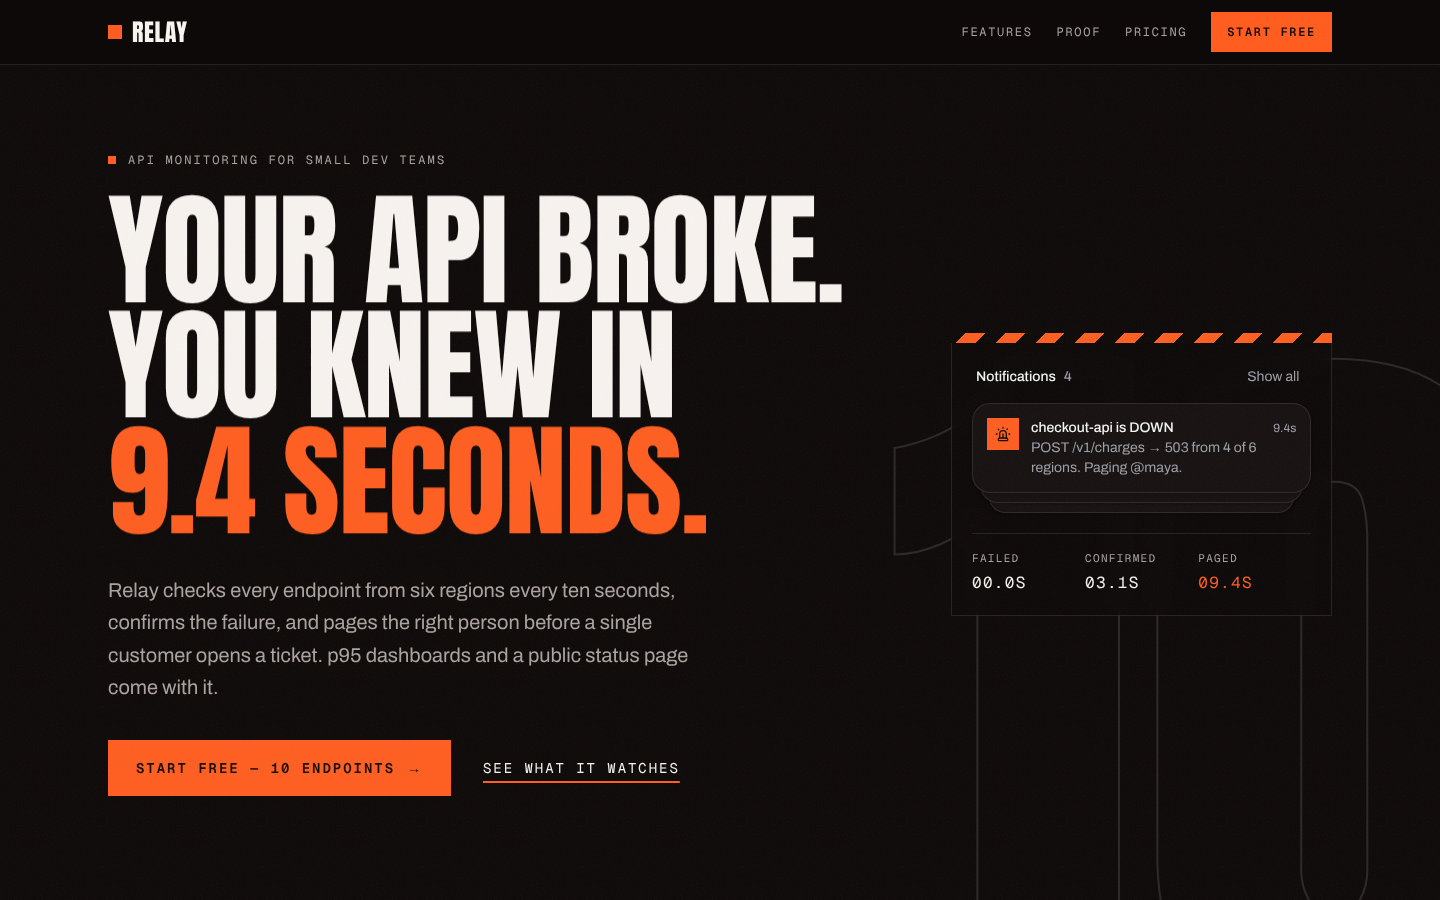
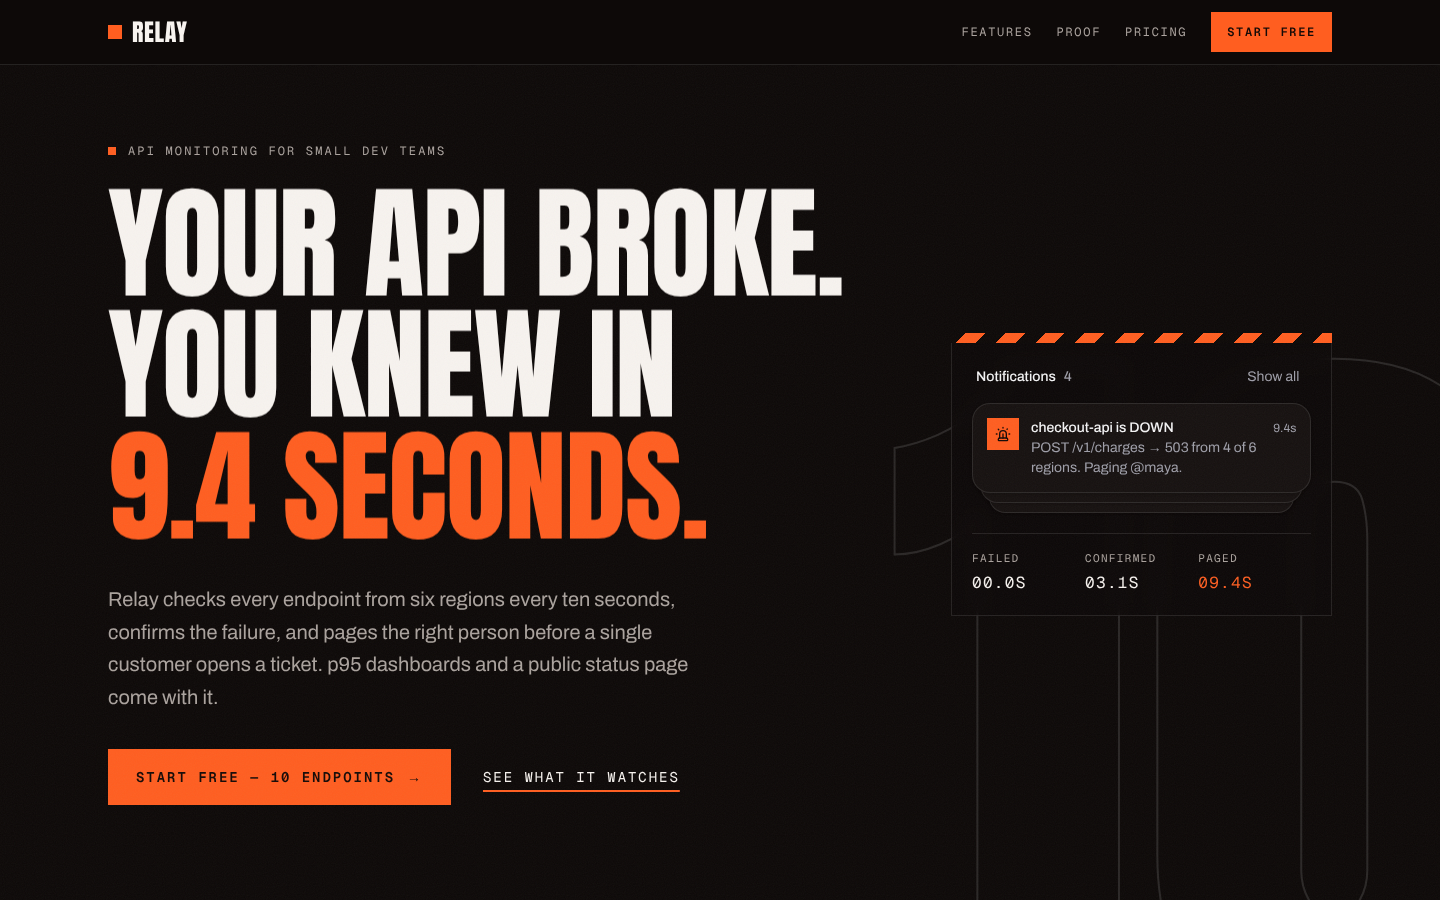
Add iteration-2 with-skill output: bold-product-landing
Claude-Session: https://claude.ai/code/session_01B9WYNw1FdydNedGGChMASu

diff --git a/premium-site-workspace/iteration-2/eval-bold-product-landing/with_skill/run-1/outputs/site/src/components/sections/hero.tsx b/premium-site-workspace/iteration-2/eval-bold-product-landing/with_skill/run-1/outputs/site/src/components/sections/hero.tsx
@@ -103,7 +103,7 @@ export function Hero() {
                 9.4 seconds.
               </span>,
             ]}
-            className="font-display text-[clamp(3.4rem,8.6vw,9.25rem)] uppercase leading-[0.93] tracking-[-0.01em] text-balance"
+            className="font-display text-[clamp(3.4rem,8.6vw,9.25rem)] uppercase leading-[0.98] tracking-[-0.01em] text-balance"
           />
           <Stagger onMount delay={0.55} className="mt-9 flex flex-col gap-9">
             <StaggerItem>

diff --git a/premium-site-workspace/iteration-2/eval-bold-product-landing/with_skill/run-1/outputs/site/src/components/sections/speed.tsx b/premium-site-workspace/iteration-2/eval-bold-product-landing/with_skill/run-1/outputs/site/src/components/sections/speed.tsx
@@ -20,7 +20,7 @@ export function Speed() {
           </h2>
         </Reveal>
         <p
-          className="mt-4 font-display uppercase leading-[0.8] tracking-[-0.02em] text-[clamp(9rem,34vw,30rem)]"
+          className="mt-10 font-display uppercase leading-[0.86] tracking-[-0.02em] text-[clamp(9rem,34vw,30rem)]"
         >
           <CountUp to={9.4} duration={1.4} format={(n) => n.toFixed(1)} />
           <span className="text-brand">s</span>

diff --git a/premium-site-workspace/iteration-2/eval-bold-product-landing/with_skill/run-1/outputs/REPORT.md b/premium-site-workspace/iteration-2/eval-bold-product-landing/with_skill/run-1/outputs/REPORT.md
@@ -1,0 +1,87 @@
+# Relay — landing page report
+
+Project: `outputs/site` (Next.js 16.4.2 App Router, Tailwind v4, shadcn/ui base-nova, Motion 14.5, Kokonut UI, Bklit UI). Art direction is in `site/ART_DIRECTION.md`. Screenshots are in `outputs/shots/`.
+
+## Concept
+> A fire-alarm pull station: black steel, one hazard-orange signal, stencilled numbers that shout the countdown. The page *is* the alarm going off before your users notice.
+
+## Type pairing
+- **Display:** Anton 400. All caps, set at `clamp(3.4rem, 8.6vw, 9.25rem)` in the hero and up to 30rem for the "9.4s" number.
+- **Text:** Archivo (variable, wdth axis). Body text is 18px.
+- **Mono:** Geist Mono, for labels, timestamps, latency figures and the plan toggle.
+
+All three load through `next/font/google` as `--font-display` / `--font-sans` / `--font-mono`.
+
+## Accent
+- `--brand: oklch(0.70 0.215 38)` (hazard orange).
+- `--brand-foreground: oklch(0.16 0.02 38)`.
+- Neutrals are tinted to hue 40: background `oklch(0.145 0.008 40)`, surface `oklch(0.185 0.009 40)`, hairlines `oklch(1 0 0 / 10%)`.
+- shadcn `--primary` / `--ring` and Bklit `--chart-line-primary` / `--chart-1` / `--chart-crosshair` are mapped to `--brand`.
+- The accent floods only one section: the final signup slab. Everywhere else it stays a signal (one word per headline, CTAs, chart lines, the escalation step).
+
+## Section map
+| # | Section | Component | Motion idea |
+|---|---|---|---|
+| 0 | Nav | custom header + brand CTA | fades in last (0.9s) |
+| 1 | Hero `#hero`: "Your API broke. You knew in 9.4 seconds." | `MaskedLines` + `Stagger onMount`, Kokonut `notification-stack` (restyled into a Relay alert feed in a hazard-striped frame), giant stroked "10" as a background type layer | headline lines rise from the mask; the alert panel rises and scales in last. **flowy:** the "10" parallaxes and the copy lifts/dims on exit |
+| 2 | Integrations strip `#integrations` | wordmarks set in Anton at 40% opacity (no third-party logo files) | **flowy:** seamless CSS ticker that pauses on hover/focus |
+| 3 | Speed `#speed` | `CountUp` to 9.4 at about 30rem, plus a 4-step failure→page timeline | number rolls up; steps stagger |
+| 4 | Latency `#latency`: "p95 down 72% in 12 weeks" | Bklit `area-chart` in `InViewMount`, 4/8 split | chart clip-reveal when it scrolls into view |
+| 5 | Uptime `#uptime`: "212 minutes down. Then 4." | Bklit `bar-chart` (stacked before/with Relay) plus a 99.99% stat, flipped 7/5 split on a surface band | bars grow when in view |
+| 6 | Features `#features` | bento grid with mixed spans: Kokonut `uptime-card` (recolored to tokens), escalation list, p95 spark bars, `relay.yml` snippet, region quorum table, three text cells | cells stagger; `HoverLift` on the small cells |
+| 7 | Pricing `#pricing` | 3 plans (Hobby $0 / Team $29 / Scale $99), monthly/yearly radiogroup with a `layoutId` pill | price digits swap with `AnimatePresence popLayout` + y |
+| 8 | Signup `#signup` | full-bleed orange slab, `MaskedLines` (whileInView), email form + Kokonut `particle-button` inside `Magnetic`, `/api/signup` stub | headline masks in; the button bursts ink chips on success |
+| 9 | Footer | link grid plus a giant cropped "RELAY" wordmark | none |
+
+## Dependencies added
+- **From the scaffold:** `motion`, `@base-ui/react`, `cn`, `clsx`, `tailwind-merge`, `class-variance-authority`, `lucide-react`, `tw-animate-css`, the visx/d3 packages and `@number-flow/react` (Bklit).
+- **Added for flowy:** `lenis`.
+- **Registry components:** Kokonut `particle-button`, `notification-stack` and `uptime-card`; Bklit `area-chart` and `bar-chart`; shadcn `button`.
+
+## Signup endpoint
+`src/app/api/signup/route.ts` validates the email. If `SIGNUP_WEBHOOK_URL` is set, it forwards the email there. **It stores nothing itself.** Set that env var in Vercel to collect signups.
+
+## Reduced motion
+- `MotionConfig reducedMotion="user"` drops transforms and keeps opacity fades.
+- `CountUp` renders 9.4 immediately (hydration-safe hook).
+- Bklit charts get `animationDuration={0}`.
+- The hero parallax values map to their resting state (same elements, same style objects, so no hydration branch).
+- Lenis does not start under reduced motion or on coarse pointers.
+- The marquee stops; the duplicate group is hidden and the list wraps statically (pure CSS media query).
+- The single CSS loop (the live "signal" dot) is gated.
+- `desktop-reduced-full.png` shows every piece of content.
+
+## Verification
+- `python3 check_site.py site`: **0 fail, 0 warn, 14 pass**.
+- `npx eslint`: **clean** (no output).
+- `npx next build`: **clean**. `/` is prerendered static; `/api/signup` is dynamic.
+- `screenshot.mjs site shots` (site-dir mode): **no console errors, hydration errors or overflow reported**, on the final run and every earlier run.
+- **Manual screenshot review:**
+  - **First pass** found a mobile layout bug: the page was 425px wide on a 390px viewport. Grid items in the features bento auto-sized to the uptime card and the code block. The script did not catch it (see the notes below). Fixed with `grid-cols-1` + `min-w-0`; the mobile capture is now exactly 390px wide.
+  - The first pass also found three smaller problems, all fixed:
+    - the email input collapsed in height on mobile (`flex-1` in a column)
+    - the hero headline lines touched (leading 0.88 → 0.98)
+    - the speed eyebrow collided with the giant number
+- **API smoke test:** `next start -p 3134`, stopped by its own PID. A valid email returns `{"ok":true}`; an invalid one returns 422.
+
+## What flowy added
+flowy was read from disk (`SKILL.md` + `references/adaptation-workflow.md`, Mode B). It stayed on Motion's clock; no GSAP was added.
+- **Lenis inertial scroll:** `smooth-scroll.tsx` drives Lenis from Motion's `frame.setup`, so there is one clock. It is mounted once in the layout with `navOffset={64}` for the fixed header, and `lenis/dist/lenis.css` is imported. It is skipped under reduced motion and on touch.
+- **Hero:** `useScroll` + `useTransform`. The stroked "10" sinks at a slower rate than the page (+260px over the hero), and the copy column lifts 90px and dims as you leave.
+- **Integrations:** a CSS transform ticker on a duplicated track (each group carries its trailing gap, so −50% is seamless), with edge mask fades. It pauses on hover/focus.
+- **Deliberately not added:** pinning, horizontal scroll and scrubbed chart tilt. The concept is "loud and instant", and the charts already reveal on view; one dominant idea per section.
+- There is only one smooth-scroll controller; `check_site.py` confirms it.
+- **Visual-theme changes from flowy:** none.
+
+## Deploy
+No Vercel credentials exist in this environment, so the site was not deployed. To deploy:
+
+```bash
+cd outputs/site && npx vercel@latest --prod --yes
+```
+
+**Git-import path:** push the project to GitHub, open vercel.com/new and import the repo. Set **Root Directory** to the `site` folder (e.g. `premium-site-workspace/iteration-2/eval-bold-product-landing/with_skill/run-1/outputs/site` if pushed as part of this repo). Framework detection is automatic. Optionally add `SIGNUP_WEBHOOK_URL`. Also update `metadataBase` in `layout.tsx` (currently `https://relay.dev`, a placeholder) to the real domain.
+
+## Content notes
+- Chart data, "1,200 teams", the 9.4s median and the customer story are illustrative placeholders for a fictional product. The chart captions say "Sample workspace". Replace them with real figures before launch.
+- Integration names are plain-text wordmarks, not logos.
